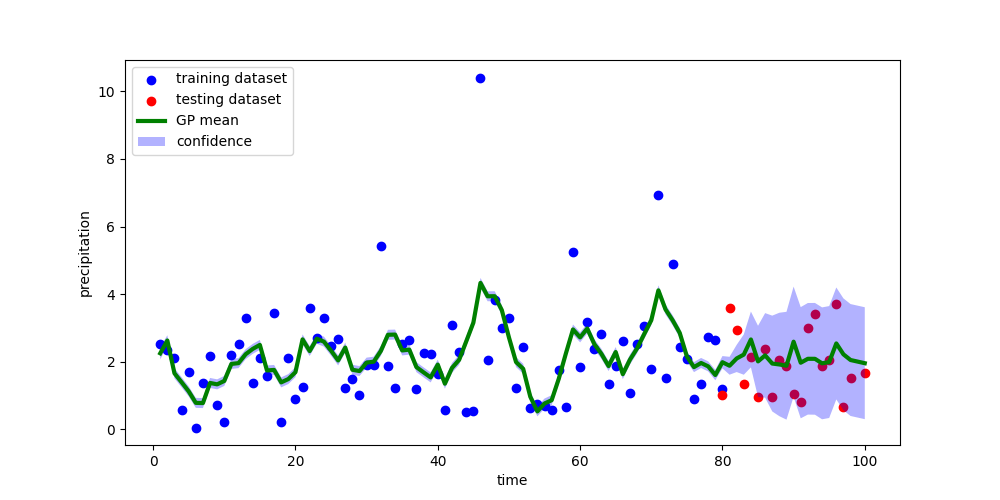
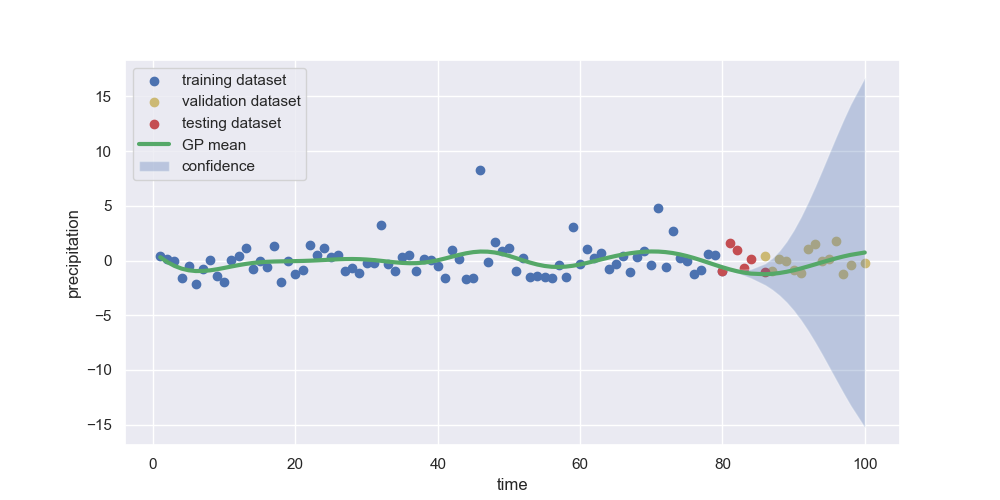
Add best kernels

diff --git a/optimise.py b/optimise.py
@@ -53,7 +53,7 @@ def load_data(lat: float = 51.875, lon: float = 0.9375, total_entries: int = 198
     return x_train, y_train, x_valid, y_valid, x_test, y_test, x_all, y_all
 
 
-def fit_gp(hyperparameters: np.ndarray) -> float:
+def fit_gp_k1(hyperparameters: np.ndarray) -> float:
     """This function initialises a Gaussian process given :param hyperparameters,
         fits it to the data, and calculates the error of the test set predictions.
         :param hyperparameters: A vector containing the hyperparameters to optimise.
@@ -63,12 +63,12 @@ def fit_gp(hyperparameters: np.ndarray) -> float:
     loss = 0
     y_mean = y_train.mean()
     for i in range(hyperparameters.shape[0]):
-
         # TODO: try a different model type, like sparseGP
-        kernel = GPy.kern.RBF(1, lengthscale=hyperparameters[i, 0], variance=hyperparameters[i, 3]) + \
-                 GPy.kern.StdPeriodic(1, lengthscale=hyperparameters[i, 1]) * \
-                 GPy.kern.PeriodicMatern32(1, lengthscale=hyperparameters[i, 2], variance=hyperparameters[i, 4])
-        model = GPy.models.GPRegression(x_train.reshape(-1, 1), (y_train-y_mean).reshape(-1, 1), kernel=kernel,
+        kernel = GPy.kern.RBF(1, lengthscale=hyperparameters[i, 0], variance=hyperparameters[i, 4]) + \
+                 (GPy.kern.RBF(1, lengthscale=hyperparameters[i, 1], variance=hyperparameters[i, 5]) *
+                  GPy.kern.Cosine(1, lengthscale=hyperparameters[i, 2], variance=hyperparameters[i, 6])) + \
+                 GPy.kern.sde_RatQuad(1, lengthscale=hyperparameters[i, 3], variance=hyperparameters[i, 7])
+        model = GPy.models.GPRegression(x_train.reshape(-1, 1), (y_train - y_mean).reshape(-1, 1), kernel=kernel,
                                         normalizer=True, noise_var=0.05)
 
         # Here we must *only* predict on the validation set, not on all the values.
@@ -81,12 +81,43 @@ def fit_gp(hyperparameters: np.ndarray) -> float:
     return loss
 
 
-def grid_search_domains(k: int, maximum_iterations: int, model_type: str, initial_design_type: str,
+def fit_gp_k2(hyperparameters: np.ndarray) -> float:
+    """This function initialises a Gaussian process given :param hyperparameters,
+        fits it to the data, and calculates the error of the test set predictions.
+        :param hyperparameters: A vector containing the hyperparameters to optimise.
+        :return: The total error of the model with these hyperparameters.
+    """
+
+    loss = 0
+    y_mean = y_train.mean()
+    for i in range(hyperparameters.shape[0]):
+        # TODO: try a different model type, like sparseGP
+        kernel = GPy.kern.RBF(1, lengthscale=hyperparameters[i, 0], variance=hyperparameters[i, 5]) + \
+                 (GPy.kern.RBF(1, lengthscale=hyperparameters[i, 1], variance=hyperparameters[i, 6]) *
+                  GPy.kern.Cosine(1, lengthscale=hyperparameters[i, 2], variance=hyperparameters[i, 7])) + \
+                 GPy.kern.sde_RatQuad(1, hyperparameters[i, 3], variance=hyperparameters[i, 8]) + \
+                 (GPy.kern.RBF(1, lengthscale=hyperparameters[i, 4], variance=hyperparameters[i, 9]) *
+                  GPy.kern.sde_White(1, variance=hyperparameters[i, 10]))
+        model = GPy.models.GPRegression(x_train.reshape(-1, 1), (y_train - y_mean).reshape(-1, 1), kernel=kernel,
+                                        normalizer=True, noise_var=0.05)
+
+        # Here we must *only* predict on the validation set, not on all the values.
+        # We want to tune the hyperparameters using just this data.
+        y_mean, y_std = model.predict(x_valid.reshape(-1, 1))
+        y_pred = draw_samples(y_mean, y_std)
+
+        loss += rms_error(y_valid, y_pred)
+
+    return loss
+
+
+def grid_search_domains(k: int, kernel: int, maximum_iterations: int, model_type: str, initial_design_type: str,
                         acquisition_type: str, acquisition_weight: float, acquisition_optimiser_type: str,
                         composite_filename: str) -> None:
     """Implements grid search over the hyperparameter domains, then runs optimisation
         for each combination of domains.
         :param k: The number of values to consider for each hyperparameter.
+        :param kernel: Kernel 1 is RBF-Cosine, kernel 2 is RBF-Cosine-Noise.
         :param maximum_iterations: The maximum number of iterations to run the optimiser for.
         :param model_type: The type of model to use.
         :param initial_design_type: The type of initial design to use (random, latin hypercube).
@@ -99,10 +130,11 @@ def grid_search_domains(k: int, maximum_iterations: int, model_type: str, initia
     # Generate hyperparameter domains on a log-scale grid.
     # The grid starts at 10^-3 and ends at 10^3.
     # :param k controls the number of values to generate.
-    # Note that this means k^5 experiments are going to be run.
+    # Note that this means k^num_parameters experiments are going to be run.
     # Generating e.g. 0.01 for a given hyperparameter means
     # its domain is going to be [0, 0.01].
-    log_scales = [np.logspace(-3, 3, k) for _ in range(5)]
+    num_hparams = 8 if kernel == 1 else 11
+    log_scales = [np.logspace(-3, 3, k) for _ in range(num_hparams)]
 
     out = open(f"{composite_filename}.txt", "a+")
 
@@ -112,27 +144,27 @@ def grid_search_domains(k: int, maximum_iterations: int, model_type: str, initia
 
         # Run optimisation using the domains generated.
         tic = time.perf_counter()
-        optimal_hparams, best_error, y_mean, y_std = optimise(maximum_iterations=maximum_iterations,
-                                                              dom_tuples=dom_tuples,
-                                                              model_type=model_type,
+        optimal_hparams, best_error, y_mean, y_std = optimise(maximum_iterations=maximum_iterations, kernel_choice=args.kernel,
+                                                              dom_tuples=dom_tuples, model_type=model_type,
                                                               initial_design_type=initial_design_type,
                                                               acquisition_type=acquisition_type,
                                                               acquisition_weight=acquisition_weight,
                                                               acquisition_optimiser_type=acquisition_optimiser_type)
         toc = time.perf_counter()
 
-        log(out, args, optimal_hparams, best_error, dom_tuples, toc - tic)
+        log(out, kernel, args, optimal_hparams, best_error, dom_tuples, toc - tic)
         plot_fitted_model(x_train, x_valid, x_test, x_all,
                           y_train, y_valid, y_test, y_mean, y_std,
                           f"{composite_filename}.png")
     out.close()
 
 
-def optimise(maximum_iterations: int = 10, dom_tuples: list[tuple] = None, model_type: str = "GP",
+def optimise(maximum_iterations: int = 10, kernel_choice: int = 1, dom_tuples: list[tuple] = None, model_type: str = "GP",
              initial_design_type: str = "random", acquisition_type: str = "LCB", acquisition_weight: float = 0.1,
              acquisition_optimiser_type: str = "lbfgs") -> tuple:
     """Runs the optimisation algorithm for a given set of hyperparameter domains.
         Also takes in other hyperparameters for the optimisation procedure.
+        :param kernel_choice: Kernel 1 is RBF-Cosine, kernel 2 is RBF-Cosine-Noise.
         :param maximum_iterations: The maximum number of iterations to run the optimiser for.
         :param dom_tuples: The hyperparameter domains to consider.
         :param model_type: The type of model to use.
@@ -142,24 +174,46 @@ def optimise(maximum_iterations: int = 10, dom_tuples: list[tuple] = None, model
         :param acquisition_optimiser_type: The type of optimiser to use.
         :return: The optimal hyperparameters, the best error, the mean and standard deviation of the predictions.
     """
+    if kernel_choice == 1:
+        domain = [
+            {'name': 'lengthscale1', 'type': 'continuous', 'domain': dom_tuples[0]},
+            {'name': 'lengthscale2', 'type': 'continuous', 'domain': dom_tuples[1]},
+            {'name': 'lengthscale3', 'type': 'continuous', 'domain': dom_tuples[2]},
+            {'name': 'lengthscale4', 'type': 'continuous', 'domain': dom_tuples[3]},
+            {'name': 'variance1', 'type': 'continuous', 'domain': dom_tuples[4]},
+            {'name': 'variance2', 'type': 'continuous', 'domain': dom_tuples[5]},
+            {'name': 'variance3', 'type': 'continuous', 'domain': dom_tuples[6]},
+            {'name': 'variance4', 'type': 'continuous', 'domain': dom_tuples[7]}]
 
-    if dom_tuples is None:
-        dom_tuples = [(0., 5.), (0., 1.), (0., 5.), (0., 1.), (0., 1.)]
+        opt = GPyOpt.methods.BayesianOptimization(f=fit_gp_k1,  # function to optimize
+                                                  domain=domain,  # box-constraints of the problem
+                                                  model_type=model_type,  # model type
+                                                  initial_design_type=initial_design_type,  # initial design
+                                                  acquisition_type=acquisition_type,  # acquisition function
+                                                  acquisition_weight=acquisition_weight,
+                                                  acquisition_optimizer_type=acquisition_optimiser_type)
 
-    domain = [
-        {'name': 'lengthscale1', 'type': 'continuous', 'domain': dom_tuples[0]},
-        {'name': 'lengthscale2', 'type': 'continuous', 'domain': dom_tuples[1]},
-        {'name': 'lengthscale3', 'type': 'continuous', 'domain': dom_tuples[2]},
-        {'name': 'variance1', 'type': 'continuous', 'domain': dom_tuples[3]},
-        {'name': 'variance2', 'type': 'continuous', 'domain': dom_tuples[4]}]
+    else:
+        domain = [
+            {'name': 'lengthscale1', 'type': 'continuous', 'domain': dom_tuples[0]},
+            {'name': 'lengthscale2', 'type': 'continuous', 'domain': dom_tuples[1]},
+            {'name': 'lengthscale3', 'type': 'continuous', 'domain': dom_tuples[2]},
+            {'name': 'lengthscale4', 'type': 'continuous', 'domain': dom_tuples[3]},
+            {'name': 'lengthscale5', 'type': 'continuous', 'domain': dom_tuples[4]},
+            {'name': 'variance1', 'type': 'continuous', 'domain': dom_tuples[5]},
+            {'name': 'variance2', 'type': 'continuous', 'domain': dom_tuples[6]},
+            {'name': 'variance3', 'type': 'continuous', 'domain': dom_tuples[7]},
+            {'name': 'variance4', 'type': 'continuous', 'domain': dom_tuples[8]},
+            {'name': 'variance5', 'type': 'continuous', 'domain': dom_tuples[9]},
+            {'name': 'variance6', 'type': 'continuous', 'domain': dom_tuples[10]}]
 
-    opt = GPyOpt.methods.BayesianOptimization(f=fit_gp,  # function to optimize
-                                              domain=domain,  # box-constraints of the problem
-                                              model_type=model_type,  # model type
-                                              initial_design_type=initial_design_type,  # initial design
-                                              acquisition_type=acquisition_type,  # acquisition function
-                                              acquisition_weight=acquisition_weight,
-                                              acquisition_optimizer_type=acquisition_optimiser_type)
+        opt = GPyOpt.methods.BayesianOptimization(f=fit_gp_k2,  # function to optimize
+                                                  domain=domain,  # box-constraints of the problem
+                                                  model_type=model_type,  # model type
+                                                  initial_design_type=initial_design_type,  # initial design
+                                                  acquisition_type=acquisition_type,  # acquisition function
+                                                  acquisition_weight=acquisition_weight,
+                                                  acquisition_optimizer_type=acquisition_optimiser_type)
 
     # Optimise the hyperparameters.
     opt.run_optimization(max_iter=maximum_iterations)
@@ -171,11 +225,20 @@ def optimise(maximum_iterations: int = 10, dom_tuples: list[tuple] = None, model
     optimal_hparams = opt.X[np.argmin(opt.Y)]
     y_mean = y_train.mean()
 
-    kernel = GPy.kern.RBF(1, lengthscale=optimal_hparams[0], variance=optimal_hparams[3]) + \
-        GPy.kern.StdPeriodic(1, lengthscale=optimal_hparams[1]) * \
-        GPy.kern.PeriodicMatern32(1, lengthscale=optimal_hparams[2], variance=optimal_hparams[4])
-
-    model = GPy.models.GPRegression(x_train.reshape(-1, 1), (y_train-y_mean).reshape(-1, 1), kernel=kernel,
+    if kernel_choice == 1:
+        kernel = GPy.kern.RBF(1, lengthscale=optimal_hparams[0], variance=optimal_hparams[4]) + \
+                 (GPy.kern.RBF(1, lengthscale=optimal_hparams[1], variance=optimal_hparams[5]) *
+                  GPy.kern.Cosine(1, lengthscale=optimal_hparams[2], variance=optimal_hparams[6])) + \
+                 GPy.kern.sde_RatQuad(1, lengthscale=optimal_hparams[3], variance=optimal_hparams[7])
+    else:
+        kernel = GPy.kern.RBF(1, lengthscale=optimal_hparams[0], variance=optimal_hparams[5]) + \
+                 (GPy.kern.RBF(1, lengthscale=optimal_hparams[1], variance=optimal_hparams[6]) *
+                  GPy.kern.Cosine(1, lengthscale=optimal_hparams[2], variance=optimal_hparams[7])) + \
+                 GPy.kern.sde_RatQuad(1, optimal_hparams[3], variance=optimal_hparams[8]) + \
+                 (GPy.kern.RBF(1, lengthscale=optimal_hparams[4], variance=optimal_hparams[9]) *
+                  GPy.kern.sde_White(1, variance=optimal_hparams[10]))
+        
+    model = GPy.models.GPRegression(x_train.reshape(-1, 1), (y_train - y_mean).reshape(-1, 1), kernel=kernel,
                                     normalizer=False, noise_var=0.05)
 
     # We are done optimising, so we can now make predictions
@@ -205,10 +268,10 @@ def plot_fitted_model(x_train: np.ndarray, x_valid: np.ndarray, x_test: np.ndarr
     """
     plt.figure(figsize=(10, 5), dpi=100)
     plt.xlabel("time")
-    plt.ylabel("precipitation")
-    plt.scatter(x_train, y_train-y_train.mean(), lw=1, color="b", label="training dataset")
-    plt.scatter(x_valid, y_valid-y_valid.mean(), lw=1, color="y", label="validation dataset")
-    plt.scatter(x_test, y_test-y_test.mean(), lw=1, color="r", label="testing dataset")
+    plt.ylabel("residual")
+    plt.scatter(x_train, y_train - y_train.mean(), lw=1, color="b", label="training dataset")
+    plt.scatter(x_valid, y_valid - y_valid.mean(), lw=1, color="y", label="validation dataset")
+    plt.scatter(x_test, y_test - y_test.mean(), lw=1, color="r", label="testing dataset")
     plt.plot(x_all, y_mean, lw=3, color="g", label="GP mean")
     plt.fill_between(x_all, (y_mean + y_std).reshape(y_mean.shape[0]), (y_mean - y_std).reshape(y_mean.shape[0]),
                      facecolor="b", alpha=0.3, label="confidence")
@@ -230,37 +293,35 @@ if __name__ == '__main__':
 
     # Here the flow of the program splits into two scenarios:
     # Run optimisation with domains found by grid search or
-    # with domains specified by the user as command-line arguments.
+    # with default domains.
     if args.grid_search:
-        grid_search_domains(k=args.k,
-                            maximum_iterations=args.num_iterations,
-                            model_type=args.model_type,
-                            initial_design_type=args.initial_design,
-                            acquisition_type=args.acquisition_type,
+        num_hparams = 8 if args.kernel == 1 else 11  # The first kernel has 8 hparams, the second 11.
+        grid_search_domains(k=args.k, num_hyperparameters=num_hparams,
+                            maximum_iterations=args.num_iterations, model_type=args.model_type,
+                            initial_design_type=args.initial_design, acquisition_type=args.acquisition_type,
                             acquisition_weight=args.acquisition_weight,
                             acquisition_optimiser_type=args.acquisition_optimiser_type,
-                            composite_filename=composite_filename, )
+                            composite_filename=composite_filename)
     else:
-        parsed_domain_tuples = []
-
-        for dom in [args.domain_ls1, args.domain_ls2, args.domain_ls3, args.domain_v1, args.domain_v2]:
-            if dom is not None:
-                bounds = dom.split(",")
-                parsed_domain_tuples.append((float(bounds[0]), float(bounds[1])))
+        if args.kernel == 1:
+            dom_tuples = [(0., 30.), (0., 30.), (0., 30.), (0., 30.),  # Length scale domains.
+                          (0., 10.), (0., 10.), (0., 10.), (0., 10.)]  # Variance domains.
+        else:
+            dom_tuples = [(0., 30.), (0., 30.), (0., 30.), (0., 30.), (0., 30.),             # Length scale domains.
+                          (0., 10.), (0., 10.), (0., 10.), (0., 10.), (0., 10.), (0., 10.)]   # Variance domains.
 
         tic = time.perf_counter()
         optimal_hparams, best_error, y_mean, y_std = optimise(maximum_iterations=args.num_iterations,
-                                                              dom_tuples=parsed_domain_tuples,
+                                                              kernel_choice=args.kernel, dom_tuples=dom_tuples,
                                                               model_type=args.model_type,
                                                               initial_design_type=args.initial_design,
                                                               acquisition_type=args.acquisition_type,
                                                               acquisition_weight=args.acquisition_weight,
-                                                              acquisition_optimiser_type=args.acquisition_optimiser_type
-                                                              )
+                                                              acquisition_optimiser_type=args.acquisition_optimiser_type)
         toc = time.perf_counter()
 
         out = open(f"{composite_filename}.txt", "a+")
-        log(out, args, optimal_hparams, best_error, parsed_domain_tuples, toc - tic)
+        log(out, args.kernel, args, optimal_hparams, best_error, dom_tuples, toc - tic)
         out.close()
         plot_fitted_model(x_train, x_valid, x_test, x_all,
                           y_train, y_valid, y_test, y_mean, y_std,

diff --git a/utils/utils.py b/utils/utils.py
@@ -12,7 +12,7 @@ def draw_samples(y_mean, y_std):
     return y_pred
 
 
-def log(file_out, exp_args, hparams, final_error, domains, time_elapsed):
+def log(file_out, kernel, exp_args, hparams, final_error, domains, time_elapsed):
     """Log the results of the optimisation."""
     file_out.writelines(f"----------------------------------------------------\n"
                         f"Experiment took: {time_elapsed:.2f} seconds\n")
@@ -23,10 +23,20 @@ def log(file_out, exp_args, hparams, final_error, domains, time_elapsed):
                         f"lengthscale3: {domains[2]} \n "
                         f"Domain of variance1: {domains[3]}, variance2: {domains[4]}\n")
 
-    file_out.writelines(f"Experiment results:\n"
-                        f"ls1: {str(hparams[0])}, ls2: {str(hparams[1])}, "
-                        f"ls3: {str(hparams[2])}, v1: {str(hparams[3])}, "
-                        f"v2: {str(hparams[4])}, best_error: {final_error}\n")
+    if kernel == 1:
+        file_out.writelines(f"Experiment results:\n"
+                            f"ls1: {str(hparams[0])}, ls2: {str(hparams[1])}, "
+                            f"ls3: {str(hparams[2])}, ls4 = {str(hparams[3])}"
+                            f"v1: {str(hparams[4])}, v2: {str(hparams[5])}"
+                            f"v3: {str(hparams[6])}, v4: {str(hparams[7])}"
+                            f", best_error: {final_error}\n")
+    else:
+        file_out.writelines(f"Experiment results:\n"
+                            f"ls1: {str(hparams[0])}, ls2: {str(hparams[1])}, "
+                            f"ls3: {str(hparams[2])}, ls4 = {str(hparams[3])}, ls5 = {str(hparams[4])}"
+                            f"v1: {str(hparams[5])}, v2: {str(hparams[6])}, v3: {str(hparams[7])}"
+                            f"v4: {str(hparams[8])}, v5: {str(hparams[9])}, v6: {str(hparams[10])}"
+                            f", best_error: {final_error}\n")
 
 
 def rms_error(y_true, y_pred) -> np.ndarray:
@@ -46,16 +56,6 @@ def parse_args():
     parser.add_argument("--acquisition_optimiser_type", default="lbfgs", type=str,
                         help="Which optimiser to use for the acquisition function. "
                              "Defaults to L-BFGS. Choose from L-BFGS, DIRECT, CMA.")
-    parser.add_argument("--domain_ls1", default="0,5", type=str,
-                        help="The domain of the first hyperparameter (lengthscale1). Enter as start, finish")
-    parser.add_argument("--domain_ls2", default="0,1", type=str,
-                        help="The domain of the second hyperparameter (lengthscale2). Enter as start, finish")
-    parser.add_argument("--domain_ls3", default="0,5", type=str,
-                        help="The domain of the third hyperparameter (lengthscale3). Enter as start, finish")
-    parser.add_argument("--domain_v1", default="0,1", type=str,
-                        help="The domain of the fourth hyperparameter (variance1). Enter as start, finish")
-    parser.add_argument("--domain_v2", default="0,1", type=str,
-                        help="The domain of the fifth hyperparameter (variance2). Enter as start, finish")
     parser.add_argument("--grid_search", default=False, type=bool,
                         help="Whether to perform a grid search over the domains of the hyperparameters. ")
     parser.add_argument("--initial_design", default="random", type=str,
@@ -63,6 +63,8 @@ def parse_args():
                              "Defaults to random. Choose from random, latin.")
     parser.add_argument("--k", default=2, type=int,
                         help="The number of domain values to explore per hyperparameter.")
+    parser.add_argument("--kernel", default=1, type=int,
+                        help="Which kernel to use. 1 is the RBF-Cosine, 2 is the RBF-Cosine-Noise.")
     parser.add_argument("--lat", default=51.875, type=float,
                         help="The latitude of the point we want to investigate. Defaults to 51.875.")
     parser.add_argument("--lon", default=0.9375, type=float,
